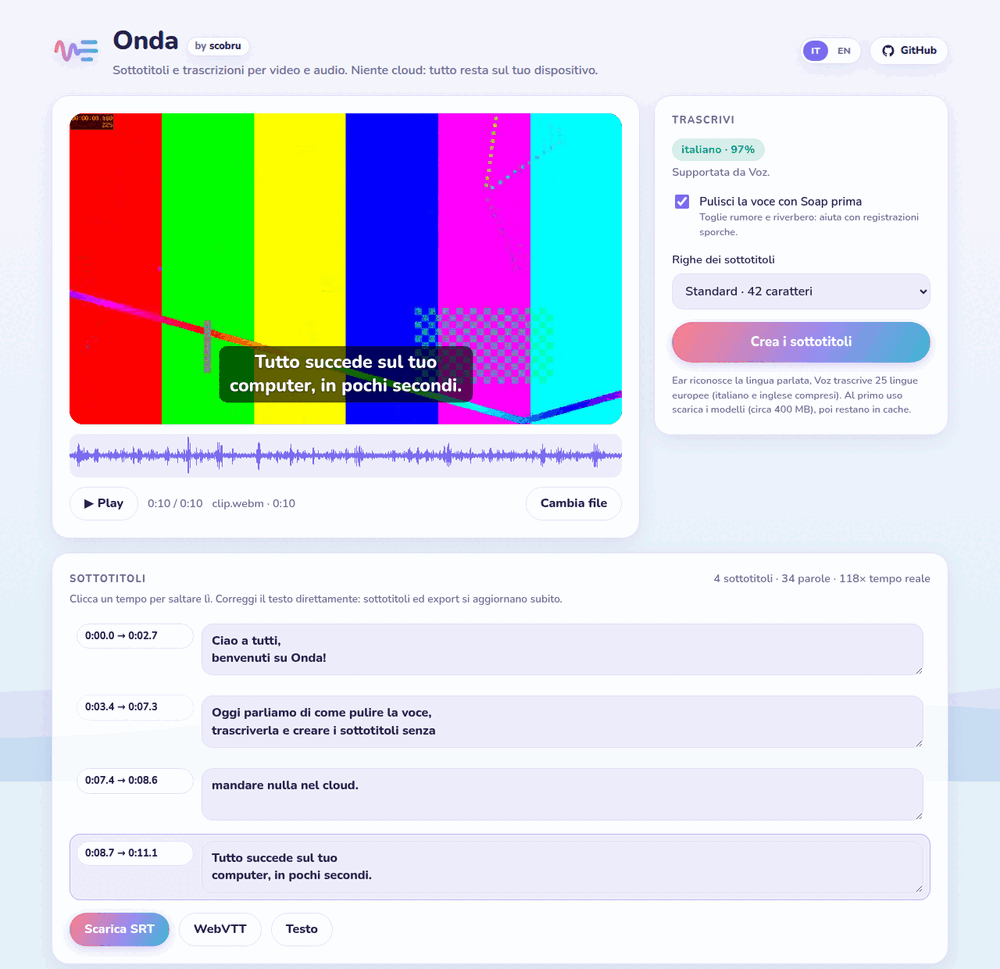
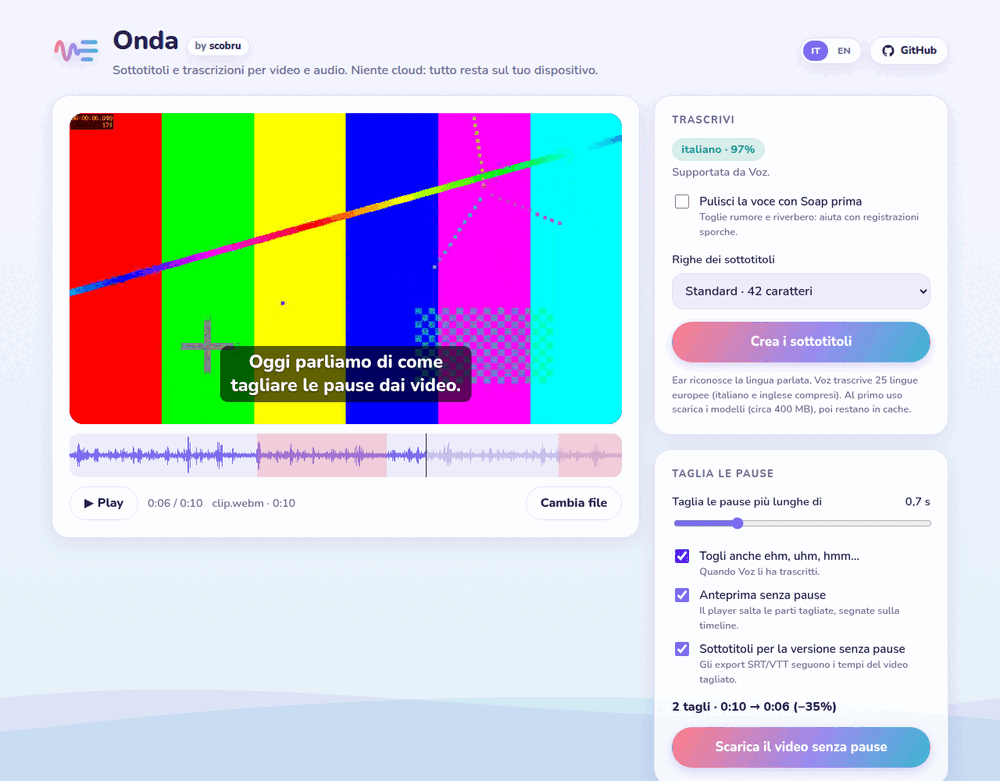
Docs: live demo, pause cutter screenshot, browsers, layout, deploy
Claude-Session: https://claude.ai/code/session_01UePucCBEDvSsWDacRVi2Vk

diff --git a/README.md b/README.md
@@ -2,14 +2,17 @@
 
 <h1 align="center">Onda</h1>
 
-<p align="center"><b>Subtitles and transcripts for video and audio</b>, in the browser and without the cloud.</p>
+<p align="center"><b>Subtitles, transcripts and jump cuts for video and audio</b>, in the browser and without the cloud.</p>
 
-<p align="center"><img src="assets/screenshot-web.png" width="720" alt="Onda: a video with its subtitles and the subtitle editor"></p>
+<p align="center"><b>Try it:</b> <a href="https://onda-mauve-gamma.vercel.app">onda-mauve-gamma.vercel.app</a></p>
+
+<p align="center"><img src="assets/screenshot-web.png" width="720" alt="Onda: a video with its live caption, the cut pauses shaded on the timeline, and the pause cutter"></p>
 
 Drop a video (or an audio file), and Onda writes its subtitles: you watch them
-over the video, fix them in place and export them. Everything runs on your
-device with small models from [Desert Ant Labs](https://desertant.com); nothing
-is uploaded.
+over the video, fix them in place and export them. It can also cut the pauses
+out and give you back a tighter video. Everything runs on your device with
+small models from [Desert Ant Labs](https://desertant.com); nothing is
+uploaded.
 
 | Step | Model | What it does |
 |---|---|---|
@@ -37,20 +40,49 @@ is uploaded.
 
 The interface is in Italian and English; it follows the browser language and has a switch.
 
+### Browsers
+
+CI tests Chromium; recent Chrome and Edge are the reference. Safari 26+ and
+Firefox should work but aren't tested. Transcription is fastest with WebGPU;
+without it Voz runs on the CPU, correctly but slowly. Rendering the cut video needs WebCodecs: Chrome and Edge encode MP4
+(H.264/AAC), other browsers fall back to what they can encode. The first
+transcription downloads about 400 MB of models, which then stay cached.
+
 ## Develop
 
 ```bash
 npm install
 npm run dev      # http://localhost:5173
-npm test         # subtitle cues and SRT/VTT/TXT
+npm test         # subtitle cues, SRT/VTT/TXT and the pause cutter
 npm run build    # static site in dist/
 ```
 
 - The audio is decoded once at 16 kHz mono (what Ear and Voz listen at), so long videos stay light in memory; the video itself plays from the original file.
 - **Ear** and **Clear** run on LiteRT.js (WebAssembly, or WebGPU on request). The runtime is served from your own origin (`scripts/copy-litert.mjs`). For its multi-threaded build the host must send `Cross-Origin-Opener-Policy: same-origin` and `Cross-Origin-Embedder-Policy: credentialless` (the Vite servers and `vercel.json` do).
 - **Voz** runs on ONNX Runtime Web: WebGPU for the encoder, WebNN for the decode step where the browser has it, and the CPU on a machine without a usable GPU. ONNX Runtime is bundled by Vite and loaded only when you transcribe.
-- **Model downloads**: Clear's weights and Voz's bundle (about 390 MB) come from Hugging Face on first use and stay in the browser's cache. `VITE_CLEAR_MODEL_BASE_URL` and `VITE_VOZ_MODEL_BASE_URL` serve them from elsewhere.
+- **Model downloads**: Ear's and Clear's weights and Voz's bundle (about 390 MB) come from Hugging Face on first use and stay in the browser's cache. `VITE_EAR_MODEL_BASE_URL`, `VITE_CLEAR_MODEL_BASE_URL` and `VITE_VOZ_MODEL_BASE_URL` serve them from elsewhere.
+- **Rendering** uses [Mediabunny](https://mediabunny.dev) over WebCodecs: the kept segments are decoded, their timestamps joined, and the result re-encoded. Nothing leaves the browser.
 - **Voz's limits**: it doesn't detect the language it hears, and its accuracy varies by language. Italian is about 3% word error rate; see the [model card](https://huggingface.co/desert-ant-labs/voz).
+
+### Where things are
+
+| File | What it does |
+|---|---|
+| `src/main.ts` | The page: loading and decoding, the player and live caption, models, subtitle editor, pause cutter |
+| `src/subtitles.ts` | Words → subtitle cues (line length, pauses, sentence ends) and SRT/VTT/TXT |
+| `src/cuts.ts` | Pauses and filler words → segments to keep, time mapping and subtitle retiming |
+| `src/render.ts` | Renders the cut edit with Mediabunny + WebCodecs |
+| `src/waveform.ts` | The timeline: waveform, playhead, shaded cuts |
+| `src/i18n.ts` | Italian and English strings |
+| `scripts/*.test.mjs` | Unit tests (`npm test`) |
+| `scripts/e2e.mjs` | End-to-end test with the real models (run by CI) |
+
+### Deploy
+
+It's a static site: `npm run build` writes `dist/`. On Vercel the project
+builds from `main` (`vercel.json` sets the build and the COOP/COEP headers),
+and every pull request gets a preview. Any other host works if it sends the same
+two headers.
 
 ## CI
 
